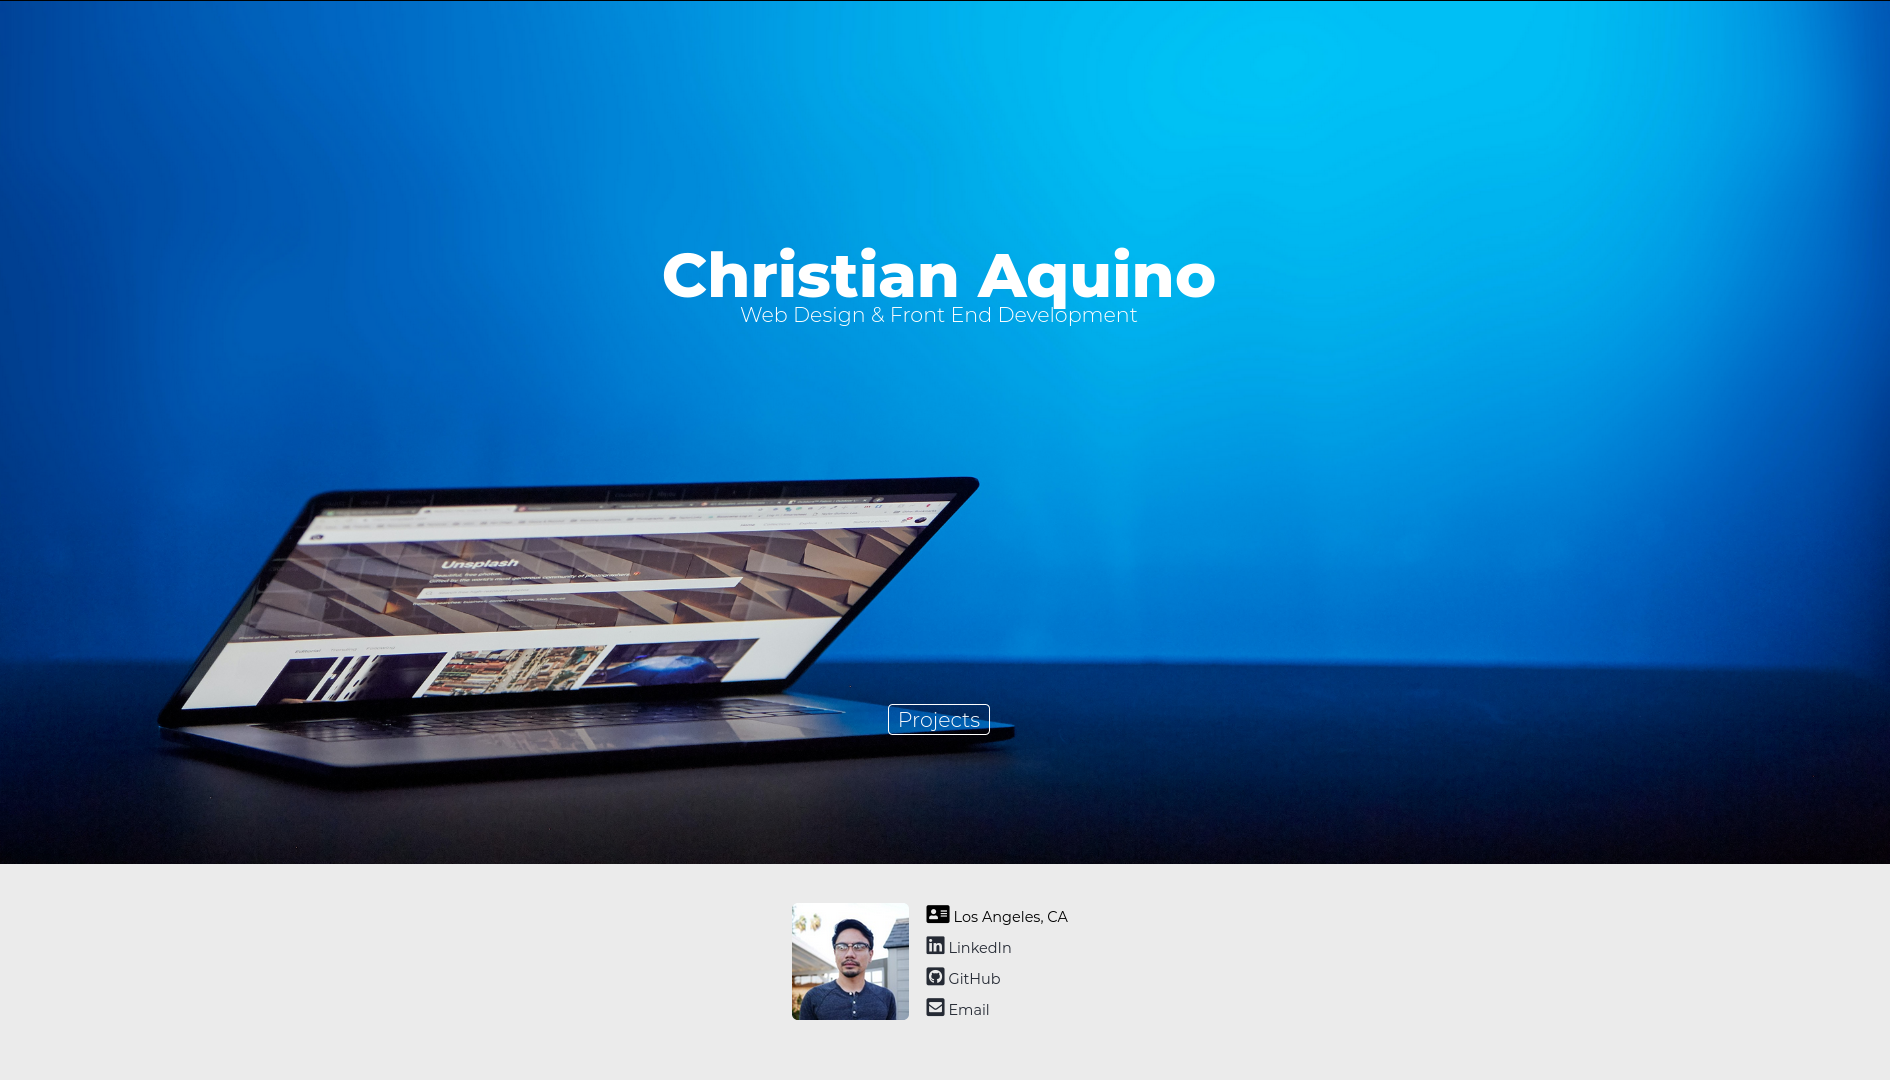
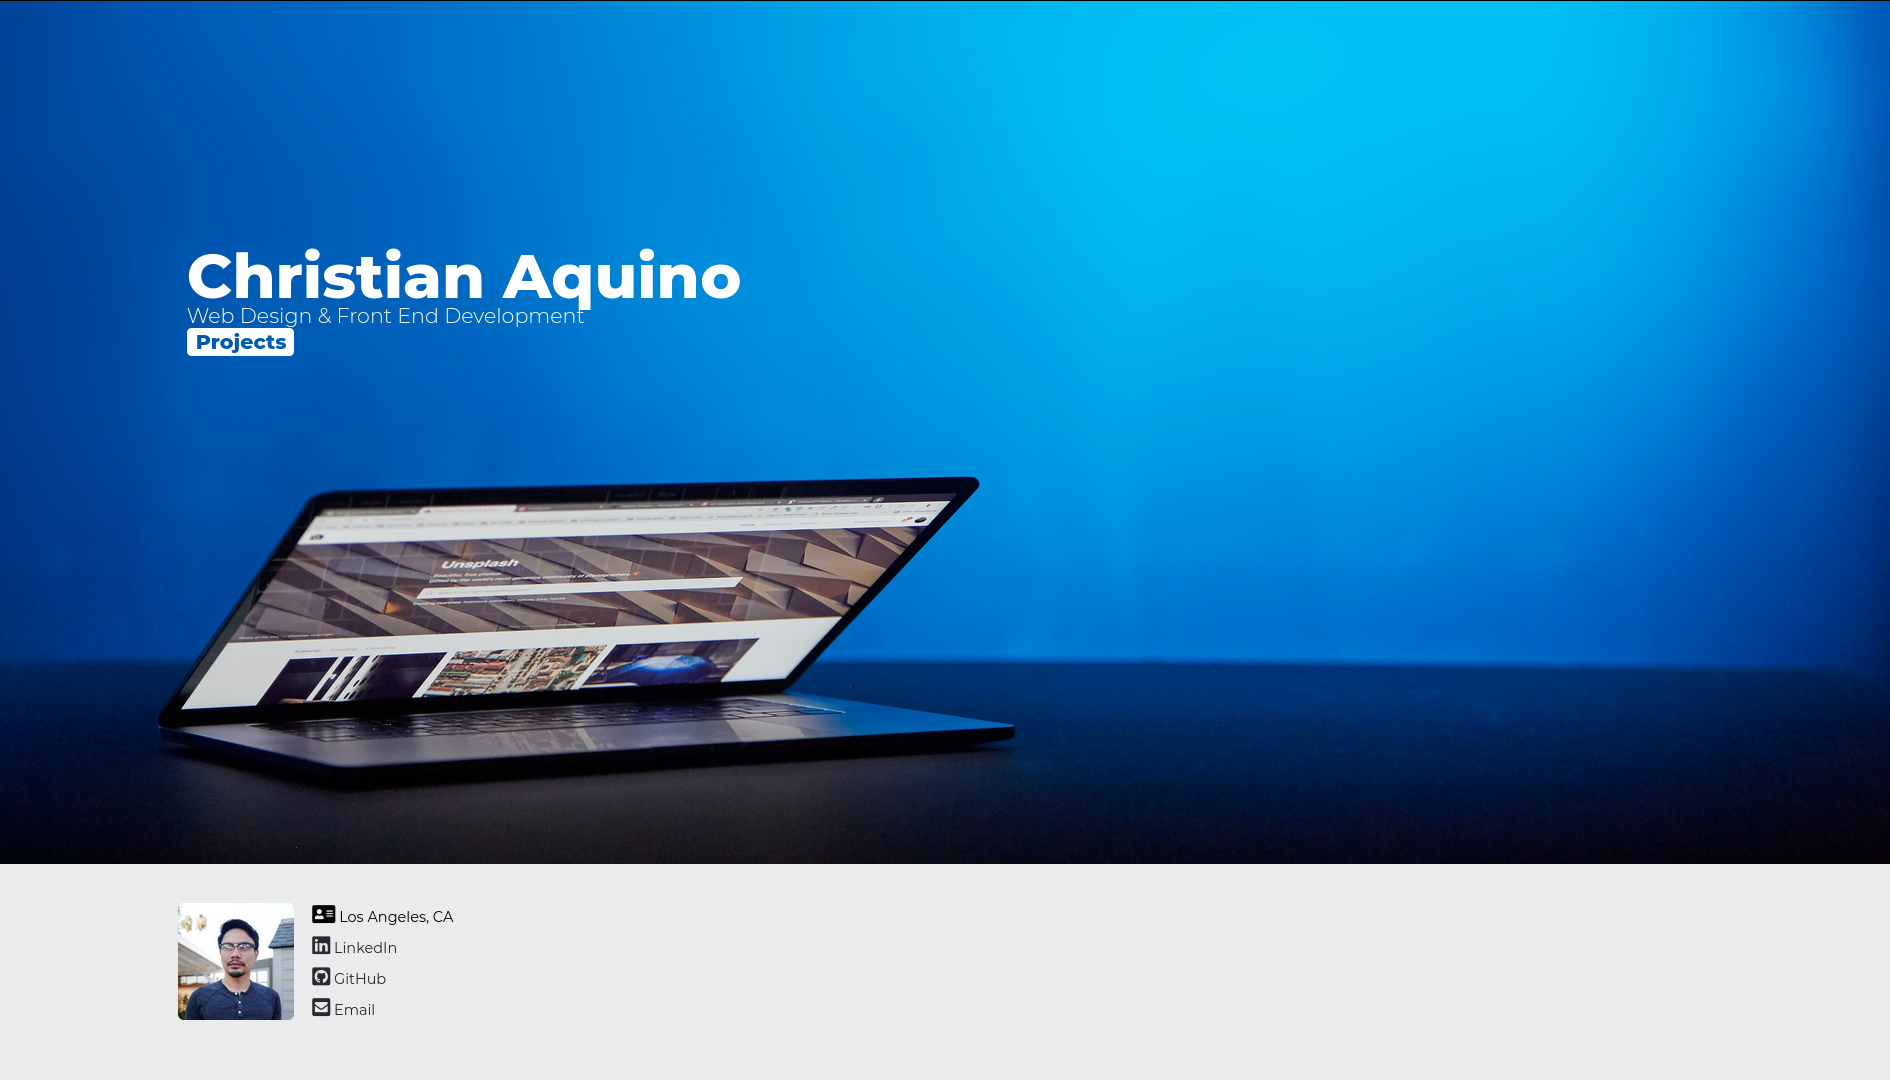
update stlying

diff --git a/src/App.css b/src/App.css
@@ -5,6 +5,9 @@
   --font-color: #252a34;
 }
 
+.hide {
+  display: none;
+}
 html {
   background-color: var(--sub-color);
 }
@@ -33,9 +36,8 @@ h4,
   font-weight: 300;
 }
 
-.subtext,
-#projects a {
-  font-size: 0.6em;
+#projects p {
+  font-size: 0.7em;
 }
 
 .container {
@@ -50,6 +52,7 @@ header {
   background: url(/imgs/laptop.jpg) no-repeat;
   background-position: bottom;
   background-size: cover;
+  z-index: 1;
 }
 
 .jumbo {
@@ -76,8 +79,8 @@ header {
 }
 
 @media (max-width: 500px) {
-  .jumbo {
-    align-items: flex-start;
+  header {
+    height: 90vh;
   }
 }
 
@@ -85,73 +88,99 @@ header {
   height: 100%;
   background-color: var(--project-color);
   padding: 1em 0.5em;
-  border-bottom-left-radius: 10px;
-  border-bottom-right-radius: 10px;
-}
-
-.cards {
+  border-bottom-left-radius: 15px;
+  border-bottom-right-radius: 15px;
   display: flex;
   flex-wrap: wrap;
-  justify-content: space-around;
-}
-.cards img {
-  object-fit: contain;
-}
-.cards div {
-  min-height: 268px;
-  max-height: 400px;
-  min-width: 1200px;
-  margin: 2em 1em 0 1em;
+  justify-content: space-evenly;
 }
 
-.cards span {
+.item {
+  max-width: 40%;
+  min-width: 470px;
   position: relative;
-  left: 100px;
-  top: 10px;
-  background-color: grey;
-  border-radius: 50%;
-  opacity: 0.7;
-  padding: 0.25em;
-  width: 40px;
-  margin: 0 0.2em;
-  text-align: center;
-  transition: 0.3s;
+  background-color: lightGrey;
+  overflow-y: hidden;
+  box-shadow: 0.1rem 0.1rem 1rem rgba(0, 0, 0, 0.336);
+  border-radius: 10px;
+  margin: 0 0.5em 1em 0.5em;
 }
 
-.cards span:hover {
+@media (max-width: 1100px) {
+  .item {
+    min-width: 330px;
+  }
+}
+
+@media (max-width: 360px) {
+  .item {
+    min-width: 270px;
+  }
+}
+.item h3 {
+  margin: 0;
+  display: block;
+  background-color: rgba(0, 0, 0, 0.753);
+  padding: 0.4rem;
+  transform: translate3d(0, -100%, 0);
+  transition: transform 300ms;
+}
+.item a {
+  position: absolute;
+  top: 0;
+  left: 0;
+  width: 100%;
+  height: 100%;
+  z-index: 1;
+}
+.item a:hover ~ .item__overlay,
+.item a:focus ~ .item__overlay {
+  transform: translate3d(0, 0, 0);
+}
+.item a:hover ~ .item__overlay h3,
+.item a:focus ~ .item__overlay h3 {
+  transform: translate3d(0, 0, 0);
+}
+.item a:hover ~ .item__overlay .item__body,
+.item a:focus ~ .item__overlay .item__body {
   opacity: 1;
 }
-
-.cards a {
-  color: white;
+.item img {
+  width: 100%;
+  height: 100%;
+  display: block;
+  object-fit: cover;
 }
-.project-link {
-  float: right;
+.item__overlay {
+  display: flex;
+  flex-direction: column;
+  justify-content: center;
+  height: 35%;
+  position: absolute;
+  width: 100%;
+  top: 66%;
+  transition: transform 300ms;
+  background-color: rgba(255, 255, 255, 0.904);
+  transform: translate3d(0, 100%, 0);
 }
-@media (max-width: 1350px) {
-  /* .cards {
-    display: block;
-  } */
 
-  .cards span {
-    left: unset;
-    top: unset;
-    bottom: 50px;
-    right: 7px;
+@media (max-width: 1100px) {
+  .item__overlay {
+    height: 60%;
+    top: 40%;
   }
-
-  .cards div {
-    min-width: unset;
-    max-height: unset;
-    max-width: 300px;
-  }
 }
-
-.cards img {
-  float: right;
-  max-width: 100%;
-  max-height: 100%;
-  border-radius: 5px;
+.item__body {
+  flex-grow: 1;
+  padding: 0.8rem;
+  opacity: 0;
+  transition: opacity 500ms 100ms;
+  overflow: hidden;
+  display: flex;
+  align-items: center;
+}
+.item__body p {
+  margin: 0;
 }
 
 footer {
@@ -169,7 +198,7 @@ footer img {
 
 footer .container {
   display: flex;
-  justify-content: start;
+  justify-content: flex-start;
   align-items: center;
 }
 
@@ -186,5 +215,5 @@ footer .container {
 
 /*  */
 .ReactCollapse--collapse {
-  transition: height 500ms;
+  transition: height 700ms;
 }
